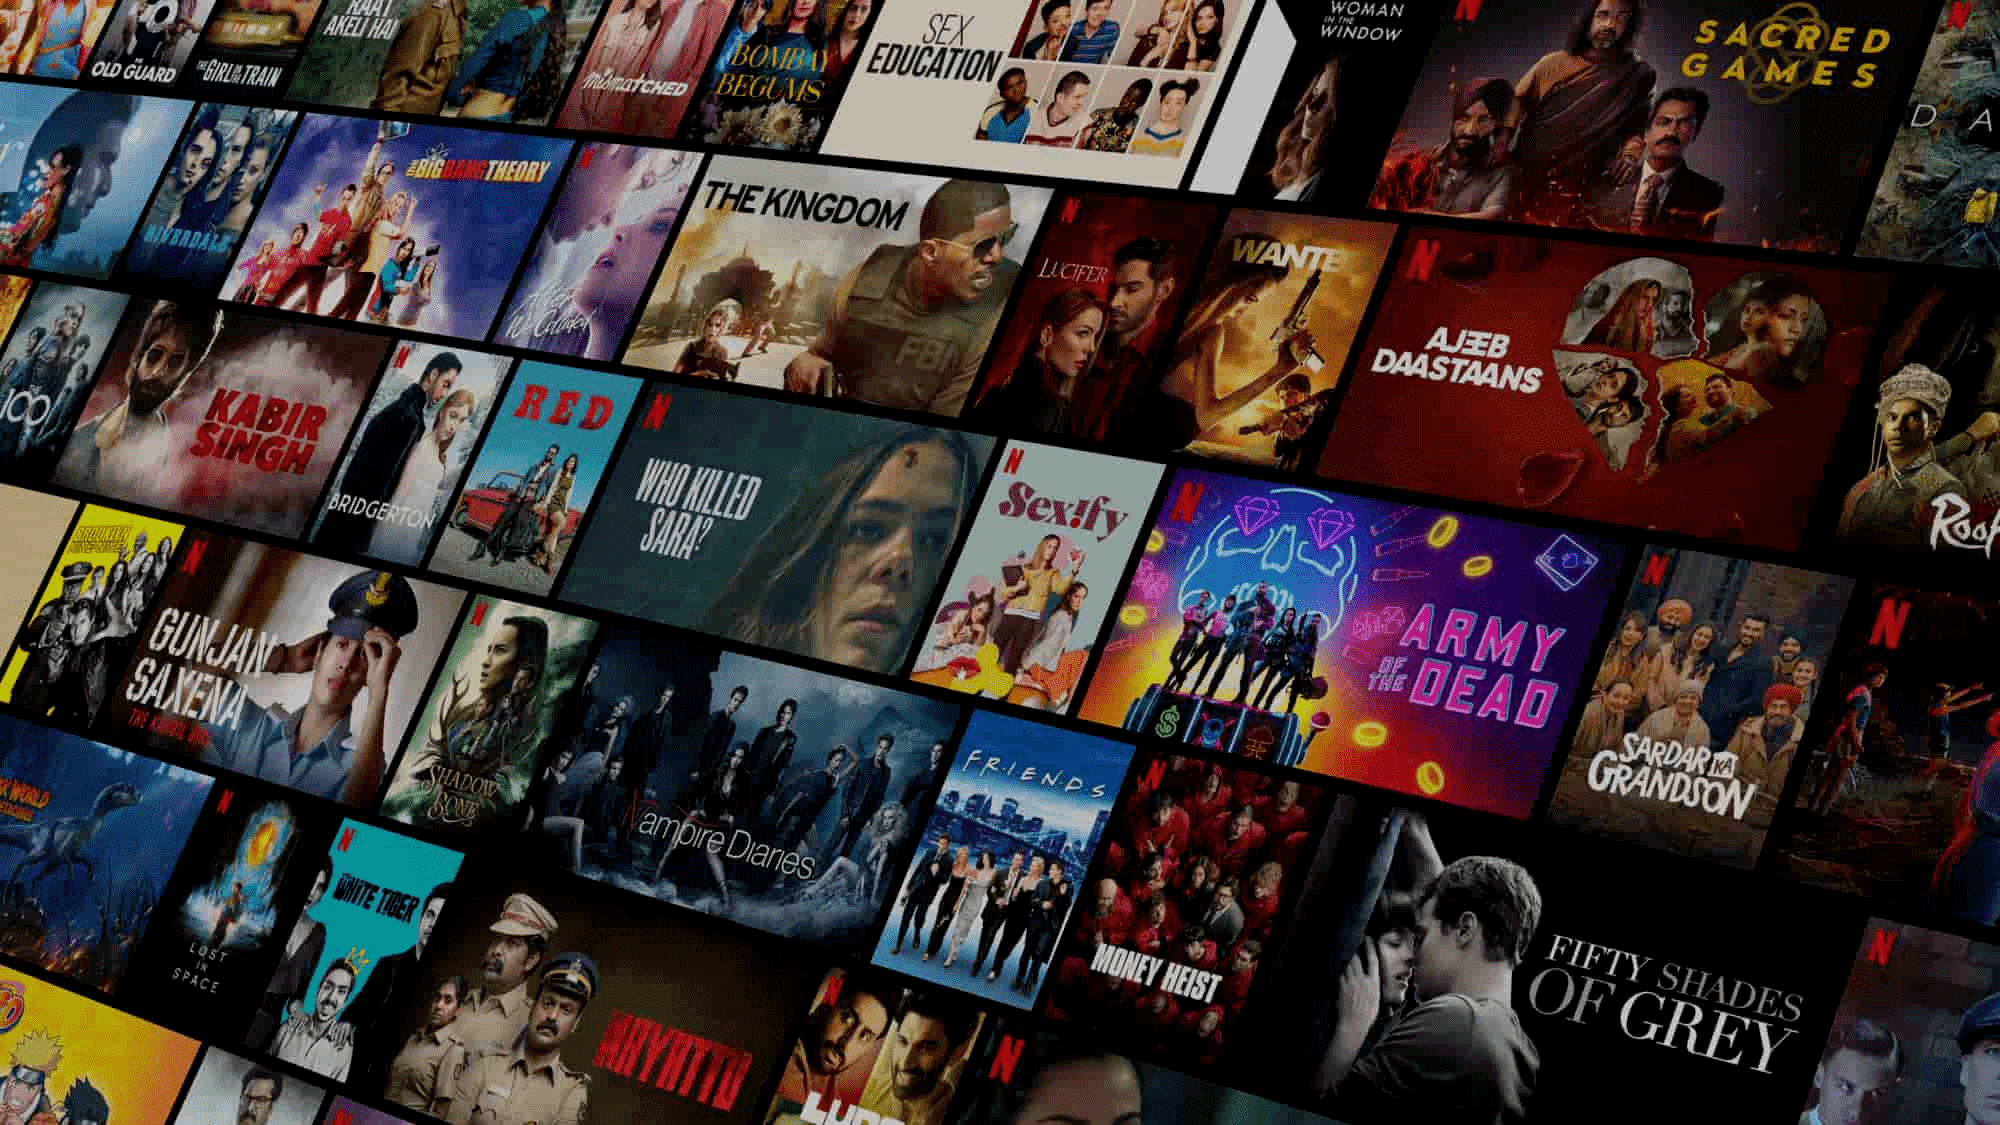
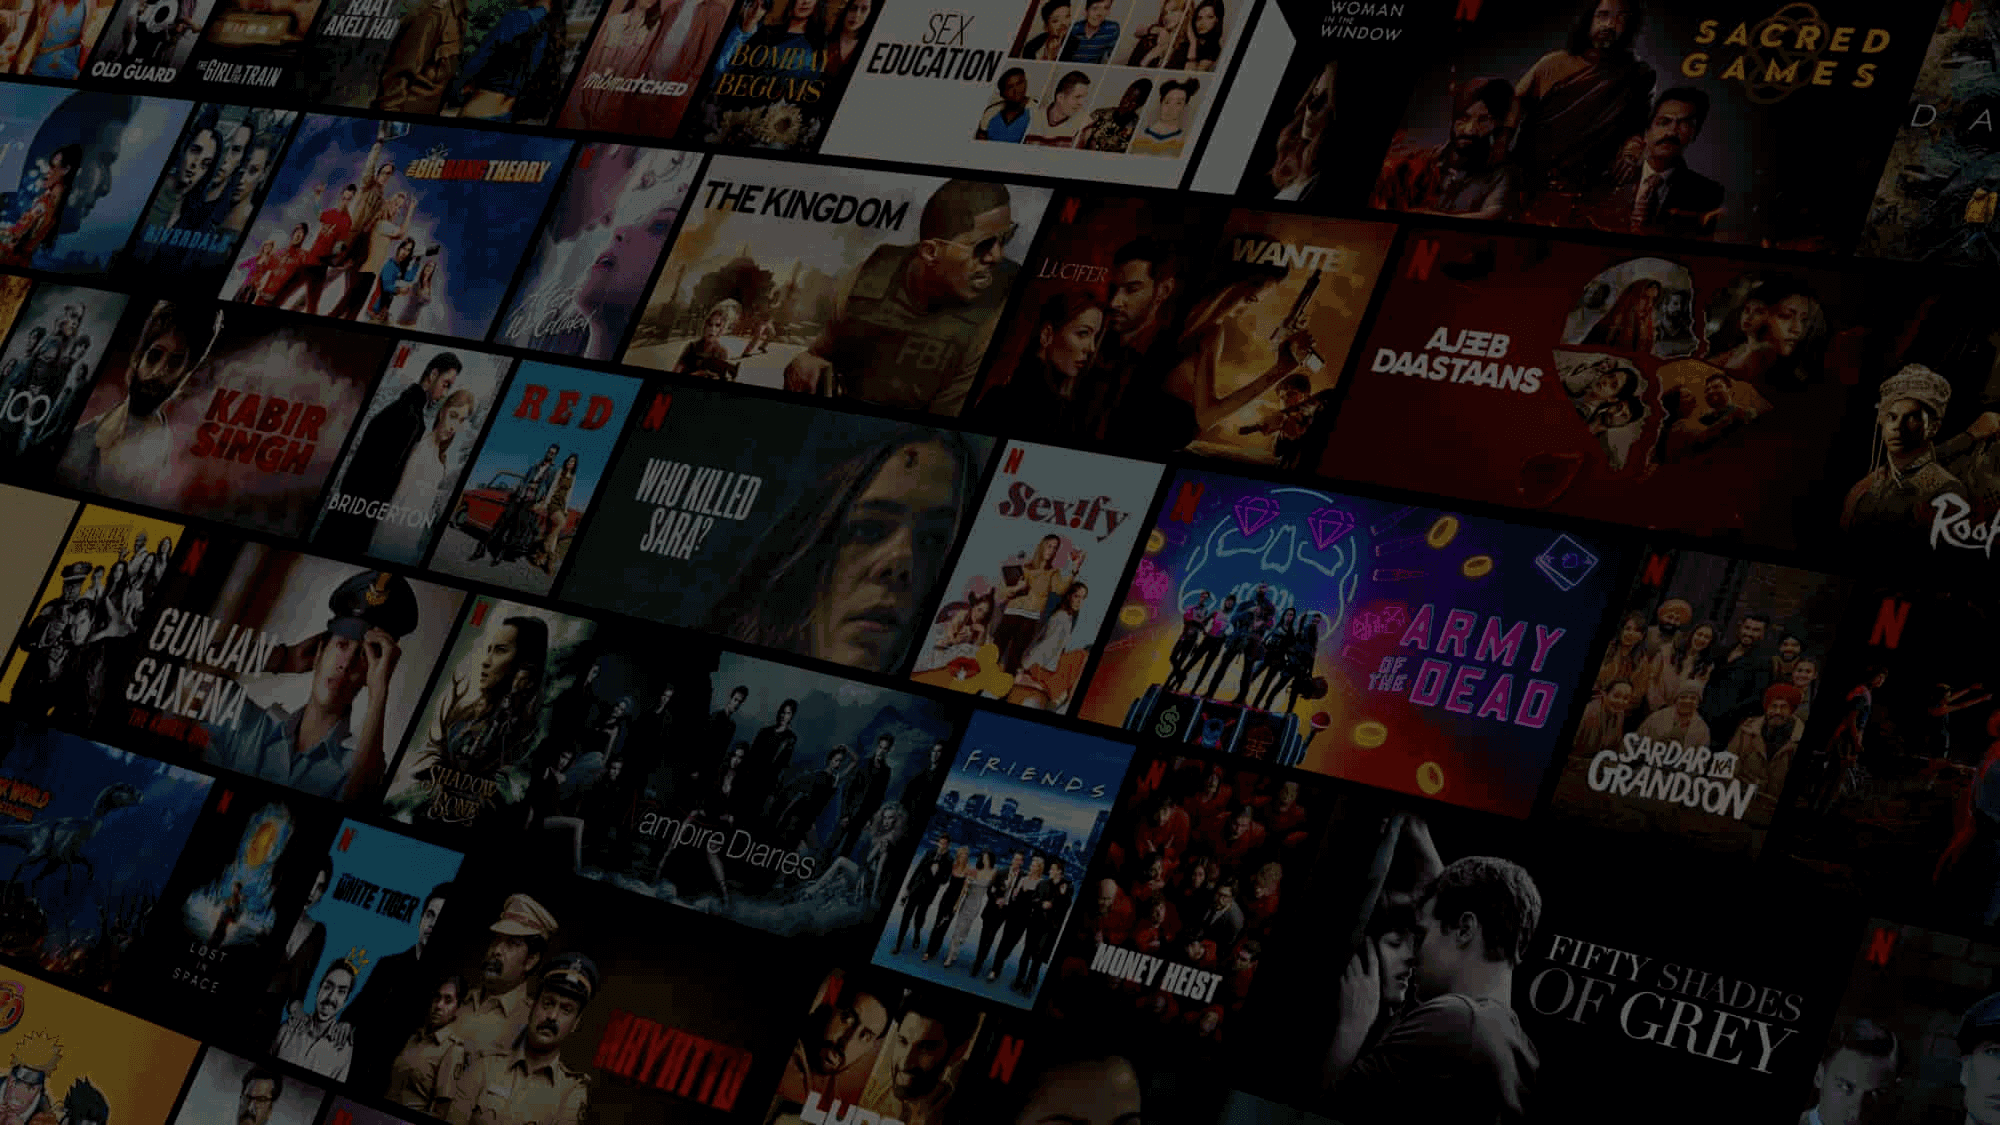
Inserção dos components no background image (tela incial)

diff --git a/src/pages/home/style.jsx b/src/pages/home/style.jsx
@@ -1,12 +1,11 @@
 import styled from "styled-components"
+import netflix from "../../assets/netflix.png"
 
 export const Container = styled.div`
   h1 {
     text-align: center;
     margin: 4rem 0;
   }
-
-  
 `
 
 export const MovieList = styled.ul`
@@ -44,3 +43,67 @@ export const Movie = styled.li`
     transform: scale(1.1);
   }
 `
+
+export const Netfli = styled.div`
+  
+  background-image: url(${netflix});
+  background-size: cover;
+  background-repeat: no-repeat;
+  background-position: center;
+  width: auto;
+  height: 90vh;
+  display: flex;
+  justify-content: center;
+  align-items: center;
+
+  div {
+    display: flex;
+    flex-direction: column;
+    align-items: center;
+  }
+  
+  h3 {
+    font-size: 4rem;
+    padding-bottom: 0.5rem;
+    text-align: center;
+    width: 70%;
+    font-weight: 500;
+  }
+
+  h2 {
+    font-size: 4rem;
+    padding-bottom: 0.5rem;
+  }
+
+  p {
+    font-size: 2rem;
+    padding-bottom: 1.9rem;
+  }
+
+  input {
+    padding: 19px;
+    width: 500px;
+    border: none;
+    font-size: 25px;
+  }
+
+  .label {
+    padding-bottom: 1rem;
+    font-size: 1.5rem;
+  }
+
+  .Input {
+    display: flex;
+    flex-direction: row;
+  }
+
+  button {
+    color: white;
+    background-color: red;
+    padding: 19px;
+    border: none;
+    width: 140px;
+    font-size: 25px;
+    font-weight: 400;
+  }
+` 

diff --git a/src/pages/home/index.jsx b/src/pages/home/index.jsx
@@ -1,8 +1,9 @@
 import { useState, useEffect } from "react";
 import APIKey from "../../../Key/APIKey";
-import { Container, Movie, MovieList } from "./style";
+import { Container, Movie, MovieList, Netfli } from "./style";
 import { Link } from "react-router-dom"
-import { Footer, Netfli } from "../common";
+import { Footer } from "../common";
+
 
 
 function Home() {
@@ -20,13 +21,22 @@ function Home() {
   return (
     <div>
       <Footer>
-        
         <footer>
           <Link to="/" className="Link"><p>V<span>Flix</span></p></Link>
         </footer>
       </Footer>
-      <Netfli></Netfli>
-      <Container>
+      <Netfli>
+        <div>
+          <h3>Filmes, séries e muito mais. Sem limites.</h3> 
+          <p>Assista onde quiser. Cancele quando quiser.</p>
+          <p className="label">Pronto para assistir? Informe seu email para criar ou reiniciar sua assinatura.</p>
+          <div className="Input">
+            <input type="email" name="email" id="email" />
+            <button type="submit">Vamos lá</button>
+          </div>
+        </div>
+      </Netfli>
+      <Container> 
         <h1>Movies</h1>
         <MovieList>
           {movies.map(movie => {

diff --git a/src/pages/common/index.jsx b/src/pages/common/index.jsx
@@ -1,5 +1,4 @@
 import styled, { createGlobalStyle } from "styled-components";
-import netflix from "../../assets/netflix.png"
 
 export const GlobalElement = createGlobalStyle`
   * {
@@ -33,19 +32,10 @@ export const Footer = styled.div`
     color: white;
     font-size: 2.5rem;
     padding-left: 1.5rem;
+    font-weight: 700;
   }
 
   span {
     color: black;
   }
 `
-
-export const Netfli = styled.div`
-  background-image: url(${netflix});
-  background-size: cover;
-  background-repeat: no-repeat;
-  background-position: center;
-  width: auto;
-  height: 90vh;
-  opacity: 50%;
-` 
